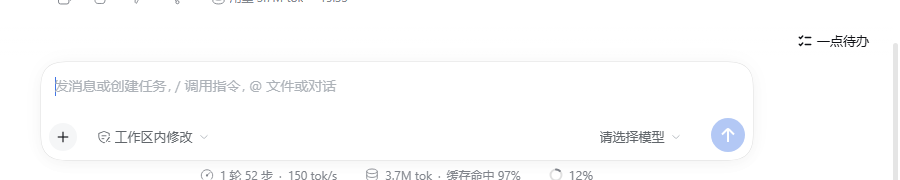
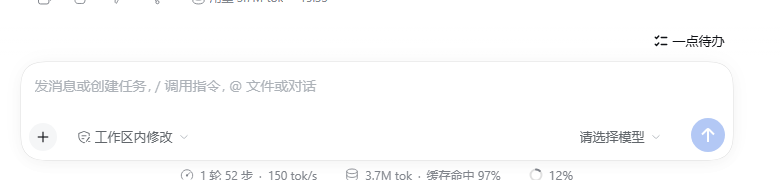
fix: align historical todos entry to the composer edge

diff --git a/client.js b/client.js
@@ -203,7 +203,7 @@ window.__ModuleLoader__.load({
       '.dsh-wt-heroIcon{display:flex;align-items:center;justify-content:center;flex:none;width:16px;height:16px;color:var(--dsw-alias-label-primary)}',
       '.dsh-wt-heroLabel{white-space:nowrap}',
       '.dsh-wt-heroCount{min-width:16px;padding:0 5px;border-radius:999px;background:var(--dsw-alias-brand-primary);color:var(--dsw-alias-bg-base);font-size:10px;line-height:16px;text-align:center;font-variant-numeric:tabular-nums}',
-      '.dsh-wt-historyDock{display:flex;justify-content:flex-end;padding:0 var(--dsh-composer-side-clearance,14px);margin:0 0 1px}',
+      '.dsh-wt-historyDock{box-sizing:border-box;display:flex;align-items:center;justify-content:flex-end;width:min(calc(var(--dsh-composer-card-max-width) + 2 * var(--dsh-composer-side-clearance)),100%);margin:0 auto 1px;padding:0 var(--dsh-composer-side-clearance)}',
       '.dsh-wt-error{color:var(--dsw-alias-state-warning-primary)}',
       '@media (max-width:640px){.dsh-wt-shell{padding:22px 16px 56px}.dsh-wt-head{gap:16px}.dsh-wt-title{font-size:20px;line-height:28px}.dsh-wt-statNum{font-size:24px;line-height:28px}.dsh-wt-sub{font-size:12px}.dsh-wt-select{max-width:210px}.dsh-wt-row{padding:11px 10px}.dsh-wt-actions{opacity:1}}',
     ].join('')
